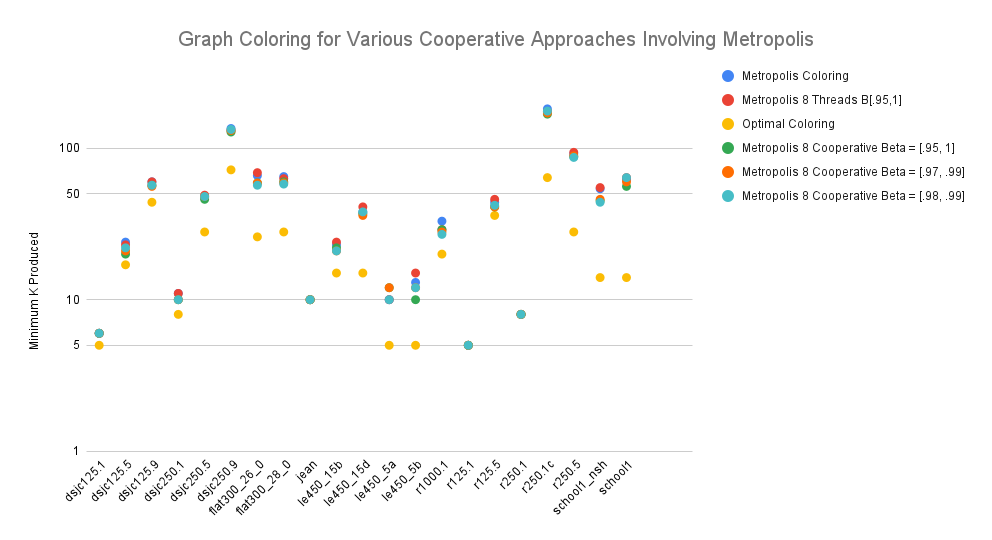
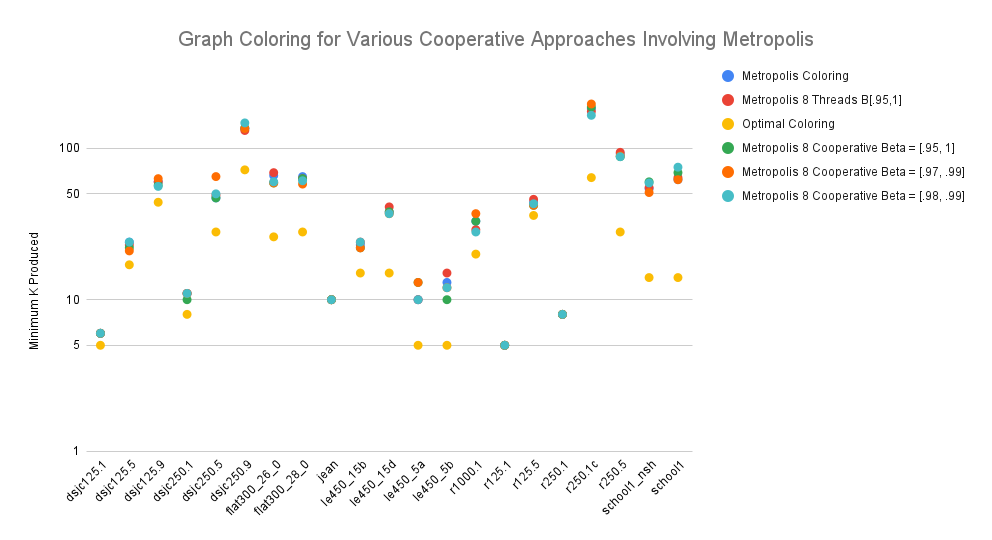
chore: mostly finish report

diff --git a/report/main.tex b/report/main.tex
@@ -4,6 +4,9 @@
 \usepackage{amssymb}
 \usepackage{subfiles}
 \usepackage{amsmath}
+\usepackage{graphicx}
+\usepackage[table,xcdraw]{xcolor}
+\usepackage{longtable}
 \usepackage[
 backend=biber,
 style=alphabetic,
@@ -28,7 +31,7 @@ Javier Valenzuela
 \institute{ Department of Electrical and Computer  Engineering\\
   University of Texas at Austin,\\
   Austin, TX 78712\\
- \email{\{email1, email2\}@utexas.edu}}
+ \email{\{gabriel_ohseas_perez, email2\}@utexas.edu}}
 
 \begin{document}
 
@@ -44,9 +47,9 @@ The \GCP is an NP-Complete problem with a rich history of approximation algorith
 \end{abstract}
 
 \section{Introduction}
-The \GCP and its variants are long existing problems with a very low barrier to understanding. Despite that, the class of problems are incredibly difficult problem to solve exactly. Applications of the problems include identifying whether a circuit board has a short circuit, solving Sudoku for any size grid, and problems of scheduling exams for university lecturers \cite{10.5555/2851123}.
+The \GCP and its variants are long existing problems with a very low barrier to understanding. Despite that, the class of problems are incredibly difficult problem to solve exactly. Applications of the class of problems include identifying whether a circuit board has a short circuit, solving Sudoku for any size grid, and problems of scheduling exams for university lecturers \cite{10.5555/2851123}.
 
-In this paper, we explore the idea of multiple algorithms cooperating to determine whether we get improved lower bounds for the \GCP approximations.
+In this paper, we explore the idea of algorithms with various hyper-parameters cooperating to determine whether we get improved lower bounds for the \GCP approximations.
 
 \section{Definitions}
 
@@ -54,16 +57,26 @@ In this paper, we explore the idea of multiple algorithms cooperating to determi
 
 A graph, $G$, is defined as $G = (V, E)$ a set of $n$ vertices $V$ and $m$ edges $E$. For this class of problems, we have a function $c: V \mapsto \mathbb{N} $. This function is called the \emph{coloring function}. The coloring is \emph{legal} if $\forall (u, v) \in E \implies c(u) \ne c(v)$. If the graph can be colored by using $k$ colors, then the graph is called $k-colorable$. The minimum $k$ that can be used to color the graph $G$ is called the \emph{chromatic number} of the graph $G$ denoted $\chi$. Another important term is neighboring coloring, which involves changing the color of a single vertex.
 
+\subsection{Central Algorithm}
+
+The central algorithm at the heart of these heuristics is to start at $|V|$ colorings, see if a feasible one exists, and then proceed downward. This approach was used for all of the algorithms discussed here. Another key idea used here is the \emph{portfolio} approach, in which we seed the algorithms with various hyper-parameters and consequently reduce
+
+\subsection{Sharing Information}
+Throughout this paper, there are references to the term sharing information. It is important to discuss what that precisely means. In this context it is feasible for algorithms to share what the lowest $k$ determined so far is. In addition, it is also feasible for them to share information about what moves they have made. This was the statistic matrix idea suggested by Li. \cite{https://doi.org/10.5445/ir/1000083192} It was implemented for PartialCol algorithm and Tabucol algorithm. It was not performed for the Metropolis algorithm. 
+
 \section{Existing Graph Coloring Problem Approaches }
 
 In this section of the paper, we will reference some existing techniques and heuristics for graph coloring as they are vital to understanding the hypothesis.
 
-\subsection{Tabucol \& HCD}\label{AA}
-Tabucol is an algorithm proposed by Hertz and de Werra \cite{hdw}. The implementation here is the modified version by Galinier and Hao \cite{tabucol} and discussed in the \emph{Guide to Graph Coloring} textbook \cite{10.5555/2851123}. The algorithm fundamentally revolves around moves, i.e., shifting a coloring to a neighboring coloring by only \emph{moving} the vertex causing the most conflicts to another color class. The algorithm attempts to prevent cyclic issues by making certain moves \emph{taboo} hence the name. The rate at which moves become accessible again is dependent upon algorithm parameters. Another algorithm that was used in this paper is called HCD. HCD itself is very similar to the tabu approaches, but uses a priority based system. Further references can be found in the referenced paper \cite{10.1007/3-540-48318-7_25}.
+\subsection{Tabucol \& PartialCol}\label{AA}
+Tabucol is an algorithm proposed by Hertz and de Werra \cite{hdw}. The implementation here is the modified version by Galinier and Hao \cite{TabuCol} and discussed in the \emph{Guide to Graph Coloring} textbook \cite{10.5555/2851123}. The algorithm fundamentally revolves around moves, i.e., shifting a coloring to a neighboring coloring by only \emph{moving} the vertex causing the most conflicts to another color class. The algorithm attempts to prevent cyclic issues by making certain moves \emph{taboo} hence the name. The rate at which moves become accessible again is dependent upon algorithm parameters. Another algorithm that was used in this paper is called PartialCol. PartialCol itself is very similar to the tabu approaches, but organizes vertices that cannot be colored without conflict.
 
 
 \subsection{Metropolis Algorithm}
-The metropolis algorithm is a very simple algorithm in which we select vertices, color them, analyze their impact to a cost function $H$ (how many neighbors are similarly colored), and approve or reject them with a probability based on the move itself. This algorithm also comes with hyper-parameters that are adjustable.
+The metropolis algorithm is a very simple algorithm in which we select vertices, color them, analyze their impact using a cost (or potential) function $H$ (how many neighbors are similarly colored), and approve or reject the color transitioning move with a probability based on the cost of the move. This algorithm also comes with hyper-parameters that are adjustable.
+
+\subsection{Antcol}
+%%Discuss Antcol
 
 
 \section{Cooperative Extensions to the Graph Coloring Problem}
@@ -72,23 +85,91 @@ This paper is comprised of several experiments:
 
 \begin{itemize}
 
-  \item Assessing whether one sees improved lower bounds on $\chi$ by running concurrent metropolis algorithms sharing information.
-  \item Assessing the performance improvements of of PartialCol, HCD, and Tabucol sharing lower bounds and partial colorings in identifying lower $\chi$.
-    \item Assessing cooperative Tabucol approaches with other algorithms - that is to say extending the results of Li. \cite{https://doi.org/10.5445/ir/1000083192}
+  \item Assessing whether one sees improved lower bounds on $\chi$ by running concurrent metropolis algorithms sharing information. 
+  \item Assessing the performance improvements of of PartialCol and Tabucol sharing lower bounds and partial colorings in identifying lower $\chi$.
+    \item Assessing cooperative Tabucol approaches with other algorithms - that is to say extending the results of Li's use of the statistic matrix. \cite{https://doi.org/10.5445/ir/1000083192} The statistic matrix in this scenario is just a means to feature moves that are made less frequently.
 \end{itemize}
 
-The source code is available in this project. It was written using a standard Java console application with gradle for managing dependencies. The most important of those dependencies is JGraphT, an open source library for handling graphs. The graph format that was used is the popular DIMACS format.
+The source code is available in this project. It was written using a standard Java console application with Gradle for managing dependencies. The most important of those dependencies is JGraphT, an open source library for handling graphs. The graph format that was used is the popular DIMACS format. The graphs used in this project are listed in the appendix in Figure. 
 
 \subsection{Cooperative Metropolis Algorithm}
 
+The first experiment was assessing whether we could get better results for Metropolis using multiple threads running different parameters and multiple threads sharing information about what the lowest $k$ currently available is. What was observed is captured in the appendix in Figure \ref{fig:metr1}. What we observed was that we do indeed see a noticeable difference in the minimum coloring achievable. Still, this approach did not yield any significant advances over using different algorithms such as Tabucol and PartialCol, whose results are discussed below. 
+
+\subsection{Cooperative Tabucol Algorithm}
+
+The results in Figure \ref{fig:TabuColl} were intended to provide discussion with reference towards \cite{https://doi.org/10.5445/ir/1000083192}. We did find that the portfolio approach decreased the error on our optimal coloring determinations. However, we were fairly surprised that that the statistic matrix approach did not yield significant benefits (in fact, it appeared detrimental). Some possible explanations were listed in the PartialCol section. 
+
+\subsection{Cooperative PartialCol Algorithm}
+
+The third experiment performed was analyzing the use of cooperative approaches and the statistic matrix for PartialCol. Again, the surprising result was that the statistic matrix didn't provide any inherent benefit over the standard cooperative approaches or the multithreaded simple portfolio approach. In fact, it performed worse in our experiments. See the average error in Figure \ref{fig:partialcol}.
+One possibility is that the implementation by Li had a different synchronization method. Ours was synchronized in access, but not in terms of iterations. Our approach determined that the best approach was simply using a portfolio approach to minimize the odds getting stuck in local minima, as the cooperative approach didn't provide too much overhead.
+
+\subsection{Antcol}
+
+\section{Conclusion}
+In this report we examined several different cooperative approaches to various local search algorithms. In addition, we leveraged the novel approach of Li and extended it to the PartialCol algorithm. In the graphs chosen, we did not observe any advantage and in fact saw some distinct disadvantages in terms of average error. For all the algorithms, however, we did see benefit in the portfolio approach. Several other approaches were evaluated (a simple evolutionary algorithm), but we found that they were not performant enough to be viable). 
 
 
+\section{Appendix}
+
+The graphs used are shown below. Optimal is Approximate denotes whether we know a lower bound for said graph. 
+
+\begin{longtable}{|l|l|l|l|l|}
+\hline
+\rowcolor[HTML]{F56B00} 
+Optimal is Approximate & Optimal Coloring & Graph Name     & Vertices & Edges \\ \hline
+\endhead
+%
+F          & 5                & dsjc125.1      & 125      & 736   \\ \hline
+F          & 17               & dsjc125.5      & 125      & 3891  \\ \hline
+F          & 44               & dsjc125.9      & 125      & 6961  \\ \hline
+F          & 8                & dsjc250.1      & 250      & 3218  \\ \hline
+T          & 28               & dsjc250.5      & 250      & 15668 \\ \hline
+F          & 72               & dsjc250.9      & 250      & 27897 \\ \hline
+F          & 26               & flat300\_26\_0 & 300      & 21633 \\ \hline
+F          & 28               & flat300\_28\_0 & 300      & 21695 \\ \hline
+F          & 10               & jean           & 80       & 254   \\ \hline
+F          & 15               & le450\_15b     & 450      & 8169  \\ \hline
+F          & 15               & le450\_15d     & 450      & 16750 \\ \hline
+F          & 5                & le450\_5a      & 450      & 5714  \\ \hline
+F          & 5                & le450\_5b      & 450      & 5734  \\ \hline
+F          & 20               & r1000.1        & 1000     & 14378 \\ \hline
+F          & 5                & r125.1         & 125      & 209   \\ \hline
+F          & 36               & r125.5         & 125      & 3838  \\ \hline
+F          & 8                & r250.1         & 250      & 867   \\ \hline
+F          & 64               & r250.1c        & 250      & 30227 \\ \hline
+T          & 28               & r250.5         & 250      & 14849 \\ \hline
+F          & 14               & school1\_nsh   & 352      & 14612 \\ \hline
+F          & 14               & school1        & 385      & 19095 \\ \hline
+\end{longtable}
+
+Note that multithreaded experiments were run with 8 threads. The notation $a[x,y]$ means that parameter $a$ was chosen with arbitrary values between $x$ and $y$. In lieu of $\alpha$ and $\beta$, a and b were used. 
+
+\begin{figure}[h]
+\centering
+\includegraphics[width=1.125\textwidth]{Metropolis.png}
+\caption{Metropolis Results}
+\label{fig:metr1}
+\end{figure}
+
+\begin{figure}[h]
+\centering
+\includegraphics[width=1\textwidth]{Tabucol.png}
+\caption{Tabucol Results}
+\label{fig:TabuColl}
+\end{figure}
 
 
-% \subsection{HCD}\label{AA}
+\begin{figure}[h]
+\centering
+\includegraphics[width=1\textwidth]{PartialCol.png}
+\caption{PartialCol Results}
+\label{fig:partialcol}
+\end{figure}
 
-% Another algorithm that was used in this paper is called HCD. HCD itself is very similar to the tabu approaches, but uses a priority based system. It is broken into four phases. The first is an initialization phase where the colors are assigned based on vertex numbers. The second is pulling where HCD assigns the lowest color value compatible
-% with those assigned to its neighbors to the vertex with the lowest priority. Third is pushing where each vertex is assigned the highest color feasible that still works with the arrangement. The final stage is popping, whose objective is to try and solve local optima issues that frequently arise with these heuristics.
+
+\clearpage
 
 \printbibliography
 

diff --git a/src/main/java/experiments/MetropolisExperiment.java b/src/main/java/experiments/MetropolisExperiment.java
@@ -47,6 +47,9 @@ public class MetropolisExperiment {
             case "5":
                 experimentFive();
                 break;
+            case "6":
+                experimentSix();
+                break;
         }
         System.exit(0);
     }
@@ -138,6 +141,23 @@ public class MetropolisExperiment {
         List<Integer> k = new ArrayList<>();
         for(String filename : files) {
             runMulithreadedExperiment(threads, k, filename, .95, 1, true);
+        }
+        for(int kz : k) {
+            System.out.println(kz);
+        }
+    }
+
+    private static void experimentSix() throws IOException, InterruptedException, ExecutionException {
+        String experimentLabel = "Much looser bound metropolis [4] algorithm for various graphs with cooperation.";
+        System.out.println(experimentLabel);
+        System.out.println(header);
+
+        int threads = 8;
+
+        List<String> files = getListOfGraphs();
+        List<Integer> k = new ArrayList<>();
+        for(String filename : files) {
+            runMulithreadedExperiment(threads, k, filename, .5, 1.5, true);
         }
         for(int kz : k) {
             System.out.println(kz);

diff --git a/src/main/java/experiments/TabucolExperiment.java b/src/main/java/experiments/TabucolExperiment.java
@@ -151,7 +151,7 @@ public class TabucolExperiment {
         List<String> files = ExperimentCommon.getListOfGraphs();
         List<Integer> k = new ArrayList<>();
         for(String filename : files) {
-            runMulithreadedExperiment(threads, k, filename, .8, .9,3,12, ColorConfiguration.builder().configuration(AdditionalConfiguration.TABUCOL).cooperative(true).withMatrix(true).build());
+            runMulithreadedExperiment(threads, k, filename, .85, .95,3,12, ColorConfiguration.builder().configuration(AdditionalConfiguration.TABUCOL).cooperative(true).withMatrix(true).build());
         }
         for(int kz : k) {
             System.out.println(kz);
